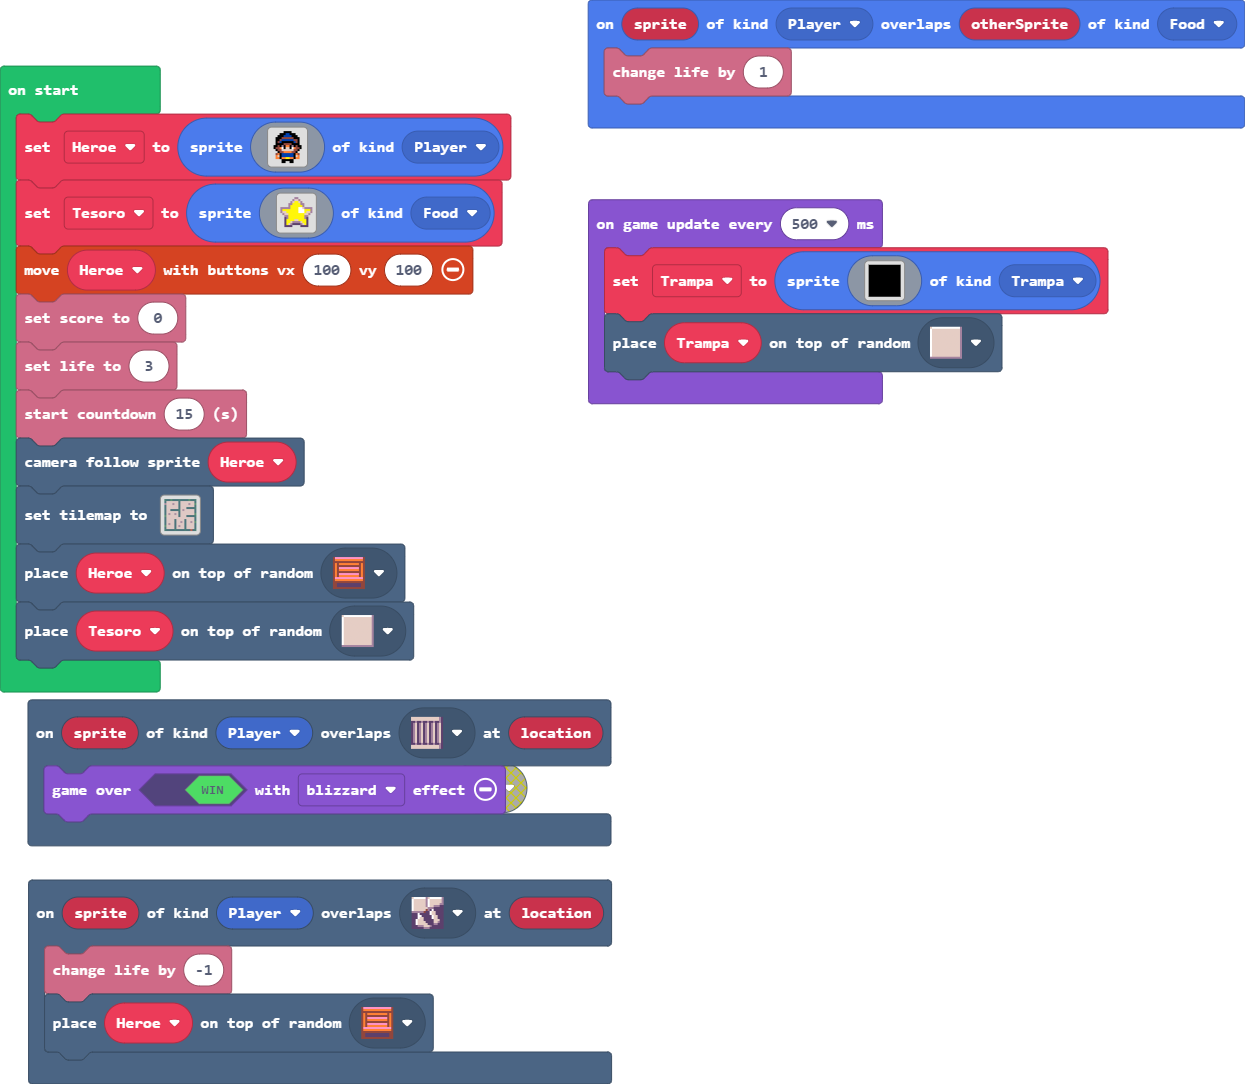
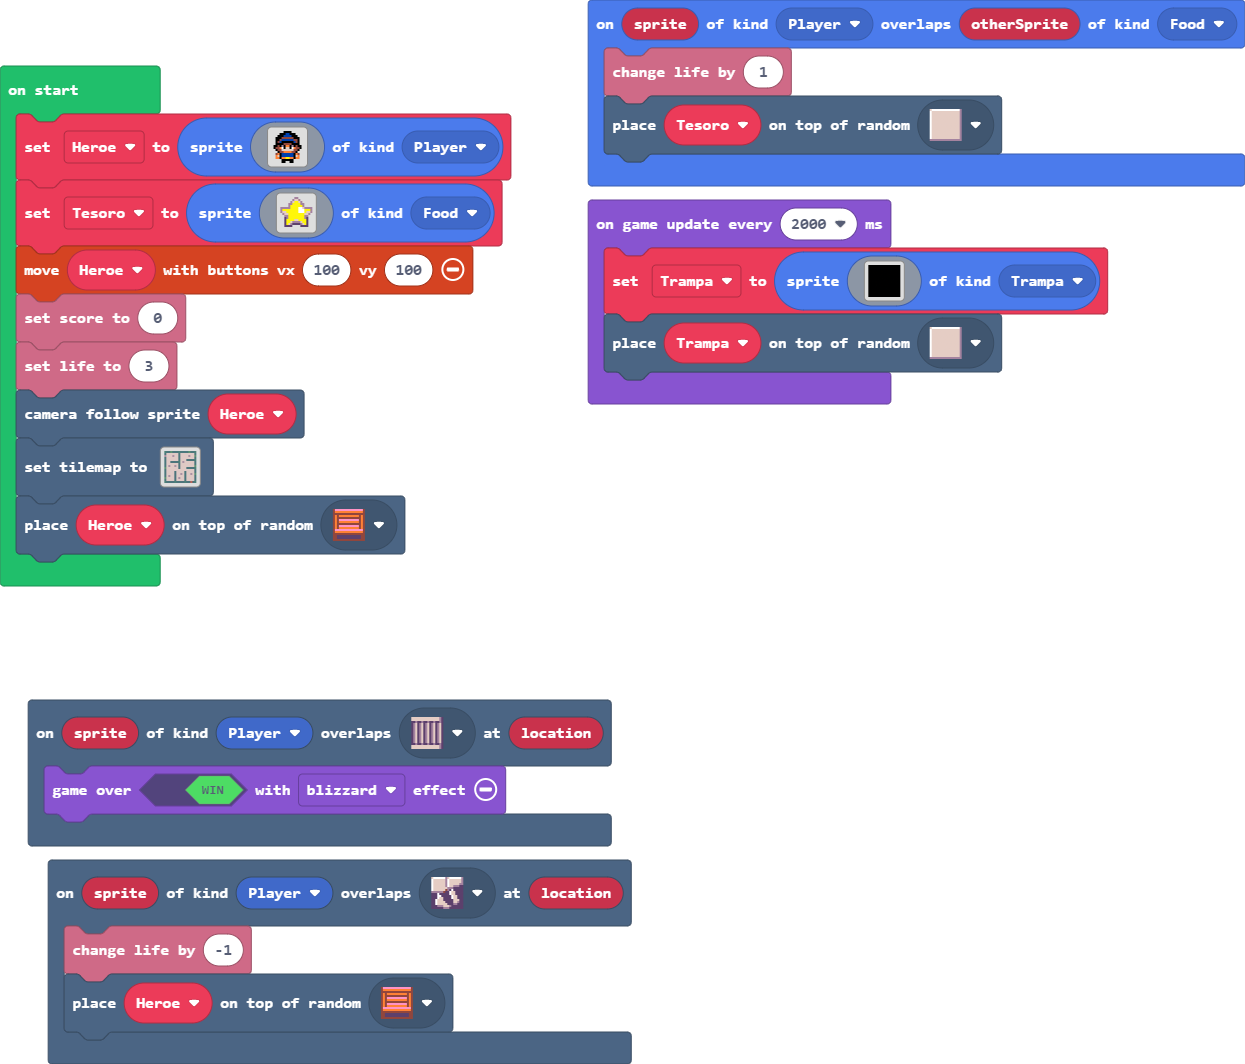
validate fix

diff --git a/tilemap.g.ts b/tilemap.g.ts
@@ -24,6 +24,25 @@ namespace myTiles {
 2 . . . . 2 . . . . 2 . . . . 2 
 2 2 2 2 2 2 2 2 2 2 2 2 2 . 2 2 
 `, [myTiles.transparency16,sprites.dungeon.greenOuterNorthWest,sprites.dungeon.greenOuterNorth0,sprites.dungeon.greenOuterNorthEast,sprites.dungeon.greenOuterEast0,sprites.dungeon.greenOuterWest0,sprites.dungeon.greenOuterSouthEast,sprites.dungeon.greenOuterSouth0,sprites.dungeon.greenOuterSouthWest,sprites.dungeon.greenOuterEast1,sprites.dungeon.floorLight2,sprites.dungeon.stairWest,sprites.dungeon.greenOuterNorth2,sprites.dungeon.stairLadder,sprites.dungeon.floorLight3], TileScale.Sixteen);
+            case "level2":
+            case "level2":return tiles.createTilemap(hex`1000100000000000000000000000000000000000000000000000000000000000000000000000000000000000000000000000000000000000000000000000000000000000000000000000000000000000000000000000000000000000000000000000000000000000000000000000000000000000000000000000000000000000000000000000000000000000000000000000000000000000000000000000000000000000000000000000000000000000000000000000000000000000000000000000000000000000000000000000000000000000000000000000000000000000000000000000000000000000000000000000000000000000000000000000000000000000`, img`
+. . . . . . . . . . . . . . . . 
+. . . . . . . . . . . . . . . . 
+. . . . . . . . . . . . . . . . 
+. . . . . . . . . . . . . . . . 
+. . . . . . . . . . . . . . . . 
+. . . . . . . . . . . . . . . . 
+. . . . . . . . . . . . . . . . 
+. . . . . . . . . . . . . . . . 
+. . . . . . . . . . . . . . . . 
+. . . . . . . . . . . . . . . . 
+. . . . . . . . . . . . . . . . 
+. . . . . . . . . . . . . . . . 
+. . . . . . . . . . . . . . . . 
+. . . . . . . . . . . . . . . . 
+. . . . . . . . . . . . . . . . 
+. . . . . . . . . . . . . . . . 
+`, [myTiles.transparency16], TileScale.Sixteen);
         }
         return null;
     })

diff --git a/main.ts b/main.ts
@@ -6,12 +6,14 @@ scene.onOverlapTile(SpriteKind.Player, sprites.dungeon.stairWest, function (spri
 })
 sprites.onOverlap(SpriteKind.Player, SpriteKind.Food, function (sprite, otherSprite) {
     info.changeLifeBy(1)
+    tiles.placeOnRandomTile(Tesoro, sprites.dungeon.floorLight2)
 })
 scene.onOverlapTile(SpriteKind.Player, sprites.dungeon.floorLight3, function (sprite, location) {
     info.changeLifeBy(-1)
     tiles.placeOnRandomTile(Heroe, sprites.dungeon.stairLadder)
 })
 let Trampa: Sprite = null
+let Tesoro: Sprite = null
 let Heroe: Sprite = null
 Heroe = sprites.create(img`
     . . . . . . f f f f . . . . . . 
@@ -31,7 +33,7 @@ Heroe = sprites.create(img`
     . . . . . f f f f f f . . . . . 
     . . . . . f f . . f f . . . . . 
     `, SpriteKind.Player)
-let Tesoro = sprites.create(img`
+Tesoro = sprites.create(img`
     . . . . . . . b b . . . . . . . 
     . . . . . . b d d b . . . . . . 
     . . . . . b d 5 5 d b . . . . . 
@@ -52,12 +54,10 @@ let Tesoro = sprites.create(img`
 controller.moveSprite(Heroe, 100, 100)
 info.setScore(0)
 info.setLife(3)
-info.startCountdown(15)
 scene.cameraFollowSprite(Heroe)
 tiles.setTilemap(tilemap`level1`)
 tiles.placeOnRandomTile(Heroe, sprites.dungeon.stairLadder)
-tiles.placeOnRandomTile(Tesoro, sprites.dungeon.floorLight2)
-game.onUpdateInterval(500, function () {
+game.onUpdateInterval(2000, function () {
     Trampa = sprites.create(img`
         f f f f f f f f f f f f f f f f 
         f f f f f f f f f f f f f f f f 
